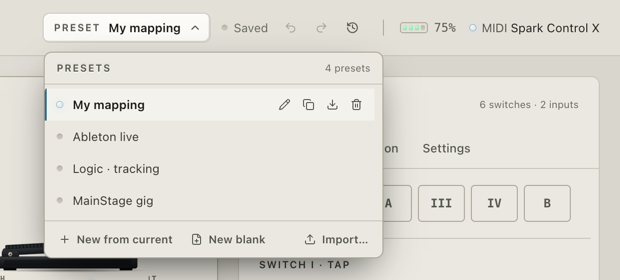
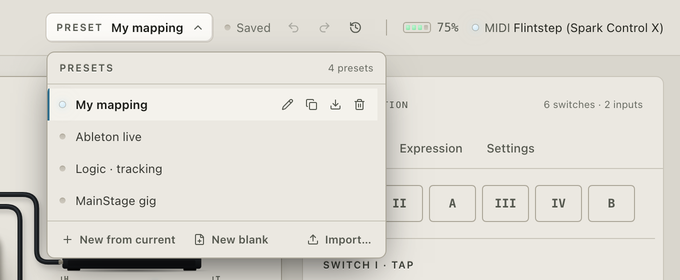
Site: rename to Flintstep, retake the screenshots, Railway notes
- All copy says Flintstep. The title is "Flintstep: Spark Control X to MIDI for
  macOS", the device is "Flintstep (Spark Control X)" and the feedback port
  "Flintstep LEDs (Spark Control X)". The repo link points at
  pierre-borckmans/flintstep, and canonical, og:url and og:image use
  https://flintstep.app.
- The app screenshots are retaken from the renamed browser mock. The preset
  crop is 680 wide now so the longer MIDI port name fits.
- og.png is regenerated.
- The log header keeps "MIDI out" and the port name on one line at phone width.
- site/README.md explains how to deploy on Railway: root directory site/,
  custom domain flintstep.app. Railpack serves a folder with an index.html as
  a static site, so the folder needs no config file.

diff --git a/site/index.html b/site/index.html
@@ -1,21 +1,23 @@
 <!doctype html>
-<html lang="en" data-repo="https://github.com/pierre-borckmans/spark-control-x-midi">
+<html lang="en" data-repo="https://github.com/pierre-borckmans/flintstep">
 <head>
 <meta charset="utf-8">
 <meta name="viewport" content="width=device-width, initial-scale=1">
-<title>Flint: Spark Control X to MIDI for macOS</title>
-<meta name="description" content="Flint is a free, open-source macOS menu-bar app that turns a Spark Control X Bluetooth footswitch into a MIDI controller for Logic, Ableton, MainStage or any MIDI app.">
+<title>Flintstep: Spark Control X to MIDI for macOS</title>
+<meta name="description" content="Flintstep is a free, open-source macOS menu-bar app that turns a Spark Control X Bluetooth footswitch into a MIDI controller for Logic, Ableton, MainStage or any MIDI app.">
 <meta name="color-scheme" content="dark light">
 <meta name="theme-color" content="#141514" media="(prefers-color-scheme: dark)">
 <meta name="theme-color" content="#e6e3da" media="(prefers-color-scheme: light)">
 <meta property="og:type" content="website">
-<meta property="og:title" content="Flint: Spark Control X to MIDI for macOS">
+<meta property="og:title" content="Flintstep: Spark Control X to MIDI for macOS">
 <meta property="og:description" content="A free macOS menu-bar app that turns a Spark Control X footswitch into a MIDI controller.">
-<meta property="og:image" content="og.png">
+<meta property="og:url" content="https://flintstep.app/">
+<meta property="og:image" content="https://flintstep.app/og.png">
 <meta property="og:image:width" content="1200">
 <meta property="og:image:height" content="630">
 <meta property="og:image:alt" content="A Spark Control X pedal drawing next to a list of MIDI messages it sends.">
 <meta name="twitter:card" content="summary_large_image">
+<link rel="canonical" href="https://flintstep.app/">
 <link rel="icon" href="favicon.svg" type="image/svg+xml">
 <link rel="stylesheet" href="style.css">
 <script>
@@ -30,9 +32,9 @@
 <a class="skip" href="#main">Skip to content</a>
 
 <header class="top">
-  <a class="brand" href="./" aria-label="Flint, home">
+  <a class="brand" href="./" aria-label="Flintstep, home">
     <img src="favicon.svg" alt="" width="22" height="22">
-    <span>Flint</span>
+    <span>Flintstep</span>
   </a>
   <nav aria-label="Site">
     <a href="#how">How it works</a>
@@ -44,7 +46,7 @@
   <section class="hero" aria-labelledby="hero-title">
     <h1 id="hero-title">Use your Spark Control X as a MIDI foot controller.</h1>
     <div class="hero-side">
-      <p class="lede">Flint is a free menu-bar app for macOS. It connects to the pedal over Bluetooth and shows up in Logic, Ableton, MainStage or any other MIDI app as a device called Spark Control X.</p>
+      <p class="lede">Flintstep is a free menu-bar app for macOS. It connects to the pedal over Bluetooth and shows up in Logic, Ableton, MainStage or any other MIDI app as a device called Flintstep (Spark Control X).</p>
       <div class="actions">
         <a class="btn" data-repo-path="/releases/latest"><span class="btn-led" aria-hidden="true"></span>Download for macOS</a>
         <a class="quiet" data-repo-path="">Source on GitHub</a>
@@ -182,7 +184,7 @@
         <div class="log-head">
           <span class="log-lamp"></span>
           <span>MIDI out</span>
-          <span class="log-port">Spark Control X</span>
+          <span class="log-port">Flintstep (Spark Control X)</span>
         </div>
         <ol class="log-rows">
           <li class="fresh"><span class="msg">CC 81 = 127 · ch 1</span><span class="sw">II</span></li>
@@ -216,14 +218,14 @@
       <li>
         <h3>Two expression inputs</h3>
         <div>
-          <p>Plug TRS expression pedals into EXP 1 and EXP 2. Set heel and toe in Flint and invert the direction if you need to. Each input can also act as a switch: it fires when the pedal leaves the heel, or when you click the toe down.</p>
+          <p>Plug TRS expression pedals into EXP 1 and EXP 2. Set heel and toe in Flintstep and invert the direction if you need to. Each input can also act as a switch: it fires when the pedal leaves the heel, or when you click the toe down.</p>
           <p class="eg"><code>EXP 1</code><span aria-hidden="true">→</span><code>CC 11 = 0 to 127 · ch 1</code></p>
         </div>
       </li>
       <li>
         <h3>LEDs your DAW can drive</h3>
         <div>
-          <p>A switch lights while you hold it and while its toggle is on. Or turn on MIDI feedback: send the same CC back to the <code>Spark Control X LEDs</code> port and the LED shows the real state, like a plugin bypassed or a track armed. The AMP and APP lamps can show MIDI traffic, the connection or USB power.</p>
+          <p>A switch lights while you hold it and while its toggle is on. Or turn on MIDI feedback: send the same CC back to the <code>Flintstep LEDs (Spark Control X)</code> port and the LED shows the real state, like a plugin bypassed or a track armed. The AMP and APP lamps can show MIDI traffic, the connection or USB power.</p>
         </div>
       </li>
       <li>
@@ -232,18 +234,18 @@
           <p>Keep a mapping per DAW or per gig and switch between them from the menu bar. Each preset has its own undo history. Export one as a file to use it on another Mac.</p>
           <picture class="crop t-dark">
             <source srcset="img/presets-dark.webp" type="image/webp">
-            <img src="img/presets-dark.png" width="620" height="280" loading="lazy" decoding="async" alt="Flint's preset menu listing My mapping, Ableton live, Logic tracking and MainStage gig, with buttons to rename, duplicate, export and delete.">
+            <img src="img/presets-dark.png" width="680" height="280" loading="lazy" decoding="async" alt="Flintstep's preset menu listing My mapping, Ableton live, Logic tracking and MainStage gig, with buttons to rename, duplicate, export and delete.">
           </picture>
           <picture class="crop t-light">
             <source srcset="img/presets-light.webp" type="image/webp">
-            <img src="img/presets-light.png" width="620" height="280" loading="lazy" decoding="async" alt="Flint's preset menu listing My mapping, Ableton live, Logic tracking and MainStage gig, with buttons to rename, duplicate, export and delete.">
+            <img src="img/presets-light.png" width="680" height="280" loading="lazy" decoding="async" alt="Flintstep's preset menu listing My mapping, Ableton live, Logic tracking and MainStage gig, with buttons to rename, duplicate, export and delete.">
           </picture>
         </div>
       </li>
       <li>
         <h3>Nothing else to install</h3>
         <div>
-          <p>No Spark app, no amp, no firmware update. Flint never writes to the profiles stored on the pedal. It remembers your pedal, reconnects on its own, and shows the battery level and charging in the menu bar.</p>
+          <p>No Spark app, no amp, no firmware update. Flintstep never writes to the profiles stored on the pedal. It remembers your pedal, reconnects on its own, and shows the battery level and charging in the menu bar.</p>
         </div>
       </li>
     </ul>
@@ -254,11 +256,11 @@
       <span class="traffic" aria-hidden="true"><i></i><i></i><i></i></span>
       <picture class="t-dark">
         <source srcset="img/app-dark.webp" type="image/webp">
-        <img src="img/app-dark.png" width="1180" height="820" loading="lazy" decoding="async" alt="Flint's editor. A drawing of the pedal shows each switch's message, CC 80 to CC 85, two expression pedals send CC 11 and CC 7, and a panel on the right sets switch I to CC 80, momentary, with an amber LED.">
+        <img src="img/app-dark.png" width="1180" height="820" loading="lazy" decoding="async" alt="Flintstep's editor. A drawing of the pedal shows each switch's message, CC 80 to CC 85, two expression pedals send CC 11 and CC 7, and a panel on the right sets switch I to CC 80, momentary, with an amber LED.">
       </picture>
       <picture class="t-light">
         <source srcset="img/app-light.webp" type="image/webp">
-        <img src="img/app-light.png" width="1180" height="820" loading="lazy" decoding="async" alt="Flint's editor. A drawing of the pedal shows each switch's message, CC 80 to CC 85, two expression pedals send CC 11 and CC 7, and a panel on the right sets switch I to CC 80, momentary, with an amber LED.">
+        <img src="img/app-light.png" width="1180" height="820" loading="lazy" decoding="async" alt="Flintstep's editor. A drawing of the pedal shows each switch's message, CC 80 to CC 85, two expression pedals send CC 11 and CC 7, and a panel on the right sets switch I to CC 80, momentary, with an amber LED.">
       </picture>
     </div>
     <figcaption>The editor. Click a switch on the drawing to choose what it sends.</figcaption>
@@ -272,12 +274,12 @@
         <p>Keep the Spark app closed. The pedal talks to one app at a time.</p>
       </li>
       <li>
-        <h3>Open Flint</h3>
-        <p>It finds the pedal and connects. macOS asks for Bluetooth access the first time. After that Flint stays in the menu bar.</p>
+        <h3>Open Flintstep</h3>
+        <p>It finds the pedal and connects. macOS asks for Bluetooth access the first time. After that Flintstep stays in the menu bar.</p>
       </li>
       <li>
         <h3>Map it in your DAW</h3>
-        <p>Pick Spark Control X as a MIDI input and use MIDI learn, or change the messages in Flint to match what your DAW expects.</p>
+        <p>Pick Flintstep (Spark Control X) as a MIDI input and use MIDI learn, or change the messages in Flintstep to match what your DAW expects.</p>
       </li>
     </ol>
   </section>
@@ -290,18 +292,18 @@
     <div class="actions">
       <a class="btn" data-repo-path="/releases/latest"><span class="btn-led" aria-hidden="true"></span>Download for macOS</a>
     </div>
-    <p class="note">Flint isn't notarized yet, so macOS blocks the first launch: click Open Anyway in System Settings › Privacy &amp; Security, or on macOS 14 and earlier right-click the app and choose Open.</p>
+    <p class="note">Flintstep isn't notarized yet, so macOS blocks the first launch: click Open Anyway in System Settings › Privacy &amp; Security, or on macOS 14 and earlier right-click the app and choose Open.</p>
   </section>
 
   <section class="block" aria-labelledby="src-title">
     <h2 id="src-title">Open source</h2>
-    <p>Flint is free and MIT licensed. The code, issues and releases are <a data-repo-path="">on GitHub</a>. The protocol work started from Paul Hamshere's <a href="https://github.com/paulhamsh/Spark-Control-X">Spark-Control-X notes</a>.</p>
+    <p>Flintstep is free and MIT licensed. The code, issues and releases are <a data-repo-path="">on GitHub</a>. The protocol work started from Paul Hamshere's <a href="https://github.com/paulhamsh/Spark-Control-X">Spark-Control-X notes</a>.</p>
   </section>
   </div>
 </main>
 
 <footer class="foot">
-  <p>Spark and Spark Control X are trademarks of Positive Grid. Flint is not affiliated with or endorsed by Positive Grid.</p>
+  <p>Spark and Spark Control X are trademarks of Positive Grid. Flintstep is not affiliated with or endorsed by Positive Grid.</p>
   <p><a data-repo-path="/blob/main/LICENSE">MIT License</a> · <a data-repo-path="">GitHub</a></p>
 </footer>
 

diff --git a/site/style.css b/site/style.css
@@ -1,4 +1,4 @@
-/* Flint. The app's light law: every surface is a neutral material, colour only where
+/* Flintstep. The app's light law: every surface is a neutral material, colour only where
    something gives off light (an LED, a lamp, the brass of a lit key, ice-blue data).
    Dark by default; light follows the system, or ?theme=light. */
 
@@ -195,7 +195,8 @@ h1 { font-size: clamp(2.05rem, 6.4vw, 3.3rem); line-height: 1.06; letter-spacing
   padding: 0.7rem 0.9rem; border-bottom: 1px solid var(--edge);
   color: var(--faint); font-size: 0.72rem; letter-spacing: 0.1em; text-transform: uppercase;
 }
-.log-port { margin-left: auto; letter-spacing: 0.02em; text-transform: none; color: var(--muted); font-size: 0.78rem; }
+.log-head > span { white-space: nowrap; }
+.log-port { margin-left: auto; min-width: 0; overflow: hidden; text-overflow: ellipsis; letter-spacing: 0; text-transform: none; color: var(--muted); font-size: 0.78rem; }
 .log-lamp { width: 6px; height: 6px; border-radius: 50%; background: var(--lamp-live); box-shadow: 0 0 6px var(--lamp-live), 0 0 14px rgb(127 227 160 / 0.4); }
 .log-rows { list-style: none; margin: 0; padding: 0.35rem 0; height: calc(6 * 2rem + 0.7rem); overflow: hidden; }
 .log-rows li {

diff --git a/scripts/site/og.html b/scripts/site/og.html
@@ -23,7 +23,7 @@
 </head>
 <body>
   <div>
-    <div class="brand"><img src="../../site/favicon.svg" alt=""><span>Flint</span></div>
+    <div class="brand"><img src="../../site/favicon.svg" alt=""><span>Flintstep</span></div>
     <h1>Use your Spark Control X as a MIDI foot controller.</h1>
     <p>A free menu-bar app for macOS.</p>
   </div>

diff --git a/site/README.md b/site/README.md
@@ -1,18 +1,33 @@
 # site
 
-Flint's landing page: plain HTML, CSS and a little JS, no build. `.github/workflows/pages.yml`
-deploys this folder to GitHub Pages on every push to main that touches it (set the repo's
-Pages source to "GitHub Actions" once).
+Flintstep's landing page, <https://flintstep.app>: plain HTML, CSS and a little JS, no
+build.
 
 ```sh
 python3 -m http.server -d site 8765   # http://localhost:8765, ?theme=light|dark to force a theme
 ```
 
-- The repo URL lives in one place, `data-repo` on `<html>` in `index.html`.
+- The repo URL lives in one place, `data-repo` on `<html>` in `index.html`. The site URL
+  is in the canonical link and `og:url`/`og:image`.
 - The pedal is generated: edit `scripts/site/pedal-svg.mjs`, then run `node scripts/site/pedal-svg.mjs`.
 - `og.png` is a screenshot of `scripts/site/og.html` at 1200x630 (instructions in that file).
 - `img/` holds screenshots of the app's browser mock (`frontend/`, `bunx vite`, then
   `?still&state=connected&cables=11&trigger=engage,toe&exp=62,100&hold=II`, plus
-  `&picker=open` and `&theme=light`), taken at 1180x820 and 2x, as WebP with PNG fallbacks.
+  `&picker=open` and `&theme=light`), taken at 1180x820 and 2x. `app-*` is the whole
+  window (PNG at 1x, WebP at 1760 wide); `presets-*` is the 680x280 region at (496, 0)
+  of the `&picker=open` shot (PNG at 1x, WebP at 2x).
 
-Custom domain: add a `site/CNAME` file containing the domain, then point DNS at GitHub Pages.
+## Deploy on Railway
+
+Railway's Railpack builder sees a directory with an `index.html` and no app framework
+as a static site and serves it with Caddy, so no config file is needed:
+
+1. New service from this GitHub repo.
+2. Settings > Source > Root Directory: `site/`.
+3. Settings > Networking > Custom Domain: `flintstep.app`, then add the DNS records
+   Railway shows at the registrar.
+4. Optional: Settings > Build > Watch Paths: `/site/**`, so only changes to the site
+   redeploy it. Without it, every push to main does.
+
+`.github/workflows/pages.yml` can also deploy this folder to GitHub Pages once the repo
+is public. Use one host for the domain, not both.
